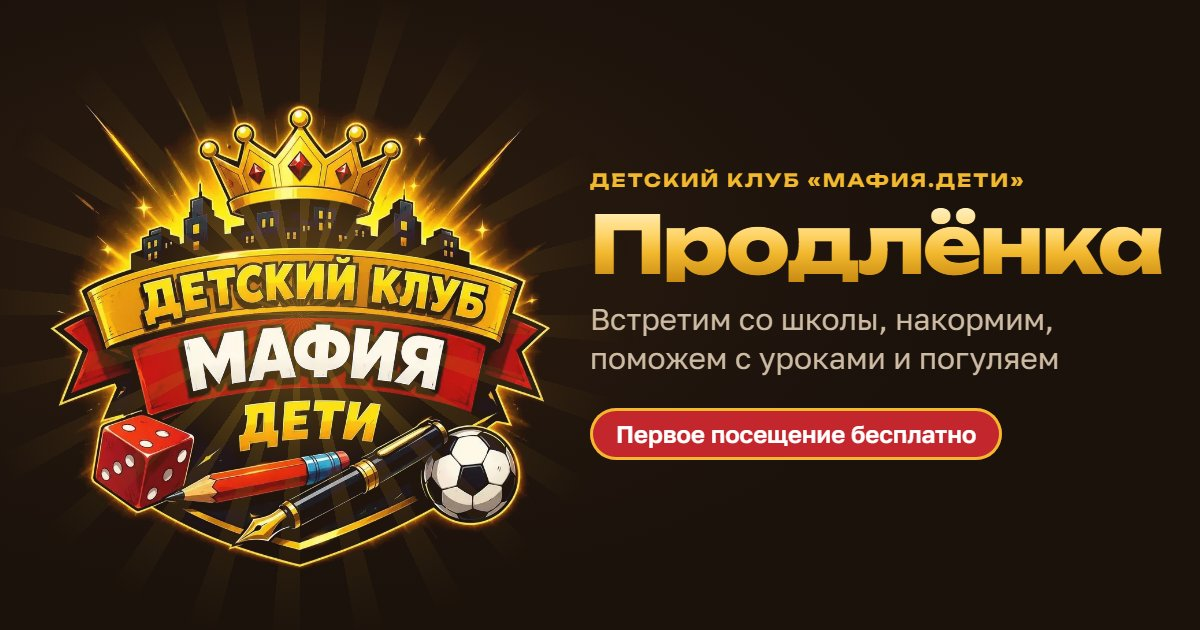
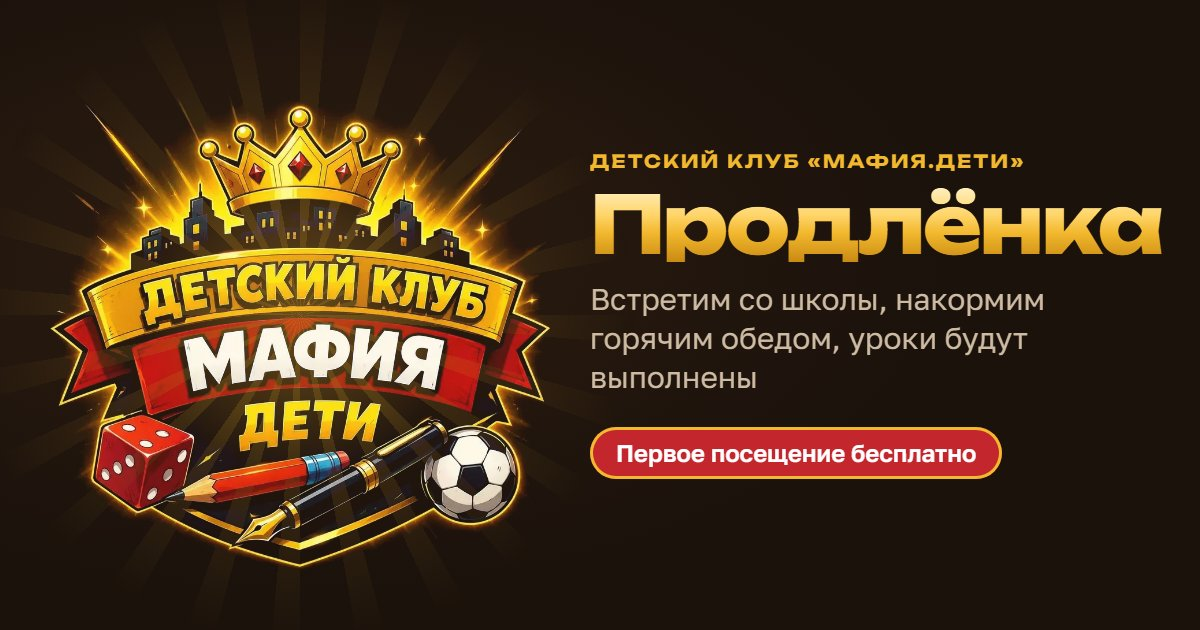
Правки клиента: цены 19 900 и 14 900 в месяц, разовое посещение, сцены утро/вечер вместо карт
Тексты первого экрана и плиток по словам клиента: уроки будут выполнены,
встретим со школы или проводим в школу, небольшие группы и внимание каждому,
доп. услуга сопровождения на секции. Убраны крупная «10» и игральные карты.

Changed region(s): [[0.4933, 0.2413, 0.9867, 0.7841]]

diff --git a/index.html b/index.html
@@ -3,13 +3,13 @@
 <head>
 <meta charset="utf-8">
 <meta name="viewport" content="width=device-width, initial-scale=1">
-<title>Продлёнка «Мафия.Дети»: встретим со школы, накормим, поможем с уроками</title>
-<meta name="description" content="Детский клуб «Мафия.Дети». Продлёнка в две смены: встречаем со школы, обед и полдник, помощь с домашним заданием, прогулки, фотоотчёт каждый день. До 10 детей в смене. Первое посещение бесплатно.">
+<title>Продлёнка «Мафия.Дети» в Краснодаре: встретим со школы, накормим, погуляем</title>
+<meta name="description" content="Детский клуб «Мафия.Дети» в Краснодаре. Продлёнка в две смены: встретим со школы или проводим в школу, горячий обед, уроки будут выполнены, прогулки и фотоотчёт. Небольшие группы, питание включено в стоимость. Первое посещение бесплатно.">
 <meta name="theme-color" content="#1B120C">
 <meta property="og:type" content="website">
 <meta property="og:locale" content="ru_RU">
 <meta property="og:title" content="Продлёнка «Мафия.Дети»">
-<meta property="og:description" content="Встретим со школы, накормим, поможем с уроками и погуляем. До 10 детей в смене, первое посещение бесплатно.">
+<meta property="og:description" content="Встретим со школы или проводим в школу, накормим горячим обедом, уроки будут выполнены. Небольшие группы, первое посещение бесплатно.">
 <!-- превью на GitHub Pages: при переезде на домен клиента поменять og:url и og:image и убрать noindex -->
 <meta property="og:url" content="https://qcoldic.github.io/mafia-deti/">
 <meta property="og:image" content="https://qcoldic.github.io/mafia-deti/assets/og.jpg">
@@ -46,8 +46,8 @@
     <symbol id="i-chat" viewBox="0 0 24 24" fill="none" stroke="currentColor" stroke-width="1.8" stroke-linecap="round" stroke-linejoin="round"><path d="M4 5.5h16v10.6H9.4L4 20V5.5z"/><path d="M8 9.6h8M8 12.6h5"/></symbol>
     <symbol id="i-copy" viewBox="0 0 24 24" fill="none" stroke="currentColor" stroke-width="1.8" stroke-linecap="round" stroke-linejoin="round"><rect x="8.5" y="8.5" width="11.5" height="11.5" rx="2"/><path d="M15.5 8.5V5a1 1 0 0 0-1-1H5a1 1 0 0 0-1 1v9.5a1 1 0 0 0 1 1h3.5"/></symbol>
     <symbol id="i-arrow" viewBox="0 0 24 24" fill="none" stroke="currentColor" stroke-width="2" stroke-linecap="round" stroke-linejoin="round"><path d="M5 12h14M13 6l6 6-6 6"/></symbol>
-    <symbol id="s-heart" viewBox="0 0 24 24"><path fill="currentColor" d="M12 21.2S3.6 15.8 3.6 9.8A4.7 4.7 0 0 1 12 6.9a4.7 4.7 0 0 1 8.4 2.9c0 6-8.4 11.4-8.4 11.4z"/></symbol>
-    <symbol id="s-spade" viewBox="0 0 24 24"><path fill="currentColor" d="M12 2.4s-8 6.4-8 11.1a4.2 4.2 0 0 0 7.1 3.1l-1.2 4.9h4.2l-1.2-4.9a4.2 4.2 0 0 0 7.1-3.1C20 8.8 12 2.4 12 2.4z"/></symbol>
+    <symbol id="i-homework" viewBox="0 0 24 24" fill="none" stroke="currentColor" stroke-width="1.8" stroke-linecap="round" stroke-linejoin="round"><rect x="5" y="3" width="14" height="18" rx="2"/><path d="M8.5 7.5h7M8.6 13.6l2.3 2.3 4.6-4.9"/></symbol>
+    <symbol id="i-calendar" viewBox="0 0 24 24" fill="none" stroke="currentColor" stroke-width="1.8" stroke-linecap="round" stroke-linejoin="round"><rect x="3.5" y="5" width="17" height="15.5" rx="2.5"/><path d="M3.5 10h17M8 3v4M16 3v4M9.2 14.8l1.9 1.9 3.8-4"/></symbol>
     <symbol id="s-diamond" viewBox="0 0 24 24"><path fill="currentColor" d="M12 1.8l7.4 10.2L12 22.2 4.6 12z"/></symbol>
   </defs>
 </svg>
@@ -90,16 +90,15 @@
       <div class="hero-copy">
         <p class="eyebrow">Детский клуб «Мафия.Дети»</p>
         <h1>Продлёнка</h1>
-        <p class="lead">Встретим ребёнка со школы, накормим обедом и&nbsp;полдником, поможем с&nbsp;уроками и&nbsp;выведем погулять. А&nbsp;вам каждый день пришлём фотоотчёт.</p>
+        <p class="lead">Встретим ребёнка со&nbsp;школы или проводим в&nbsp;школу. Накормим вкусным горячим обедом, уроки будут выполнены, сходим на&nbsp;прогулку и&nbsp;обязательно пришлём фотоотчёт.</p>
         <div class="hero-cta">
           <a class="btn btn-red btn-lg" href="#zapis" data-want="Бесплатное посещение">Бесплатное посещение <svg class="ico" aria-hidden="true"><use href="#i-arrow"/></svg></a>
           <a class="btn btn-ghost-dark btn-lg" href="tel:+79330512500"><svg class="ico" aria-hidden="true"><use href="#i-phone"/></svg> Позвонить</a>
         </div>
-        <dl class="facts">
-          <div><dt>до 10</dt><dd>детей в одной смене</dd></div>
-          <div><dt>07:40</dt><dd>начало второй смены</dd></div>
-          <div><dt>18:30</dt><dd>конец первой смены</dd></div>
-        </dl>
+        <div class="facts">
+          <p class="facts-num">до&nbsp;10</p>
+          <p class="facts-text">детей в&nbsp;одной смене<b>Небольшие группы, внимание каждому</b></p>
+        </div>
       </div>
     </div>
     <svg class="skyline" viewBox="0 0 1440 200" preserveAspectRatio="xMidYMax slice" aria-hidden="true"></svg>
@@ -114,7 +113,7 @@
     </div>
   </div>
 
-  <!-- Смены и цены: две игральные карты -->
+  <!-- Смены и цены: у каждой смены своё время суток над городом. Первая до вечера, вторая с утра -->
   <section class="sec" id="smeny">
     <div class="wrap">
       <div class="sec-head rv">
@@ -123,38 +122,54 @@
         <p>Ребёнок учится в первую смену? Встретим после уроков. Во вторую? Возьмём с&nbsp;утра и&nbsp;отведём в&nbsp;школу.</p>
       </div>
       <div class="shifts">
-        <article class="pcard pcard--heart rv">
-          <div class="pcard-face">
-            <span class="idx"><b>1</b><svg aria-hidden="true"><use href="#s-heart"/></svg></span>
-            <span class="idx idx--br" aria-hidden="true"><b>1</b><svg><use href="#s-heart"/></svg></span>
-            <svg class="pcard-mark" aria-hidden="true"><use href="#s-heart"/></svg>
+        <article class="shift rv">
+          <svg class="scene scene--evening" viewBox="0 0 400 150" preserveAspectRatio="xMidYMax slice" aria-hidden="true">
+            <defs><linearGradient id="sky-evening" x1="0" y1="0" x2="0" y2="1"><stop offset="0" stop-color="#4A1A26"/><stop offset=".55" stop-color="#B8413A"/><stop offset="1" stop-color="#F2A548"/></linearGradient></defs>
+            <rect width="400" height="150" fill="url(#sky-evening)"/>
+            <path class="star" d="M262 24l3 5-3 5-3-5zM318 46l2.4 4-2.4 4-2.4-4zM356 18l2 3.4-2 3.4-2-3.4zM206 38l2 3.4-2 3.4-2-3.4z"/>
+            <g class="sun"><circle cx="104" cy="92" r="52" fill="#FFD56A" opacity=".22"/><circle cx="104" cy="92" r="30" fill="#FFC24D"/></g>
+            <g class="city" data-city="evening"></g>
+          </svg>
+          <div class="shift-body">
+            <span class="coin shift-num" aria-hidden="true">1</span>
             <h3 class="kicker">Первая смена</h3>
             <p class="time">до 18:30</p>
-            <p class="pcard-text">Встречаем со школы, дальше ребёнок с&nbsp;нами до&nbsp;вечера.</p>
-            <p class="incl"><svg class="ico" aria-hidden="true"><use href="#i-meal"/></svg> Обед и&nbsp;полдник</p>
-            <div class="pcard-foot">
-              <p class="price">22&nbsp;000&nbsp;₽</p>
+            <p class="shift-text">Встречаем со школы, дальше ребёнок с&nbsp;нами до&nbsp;вечера.</p>
+            <p class="incl"><svg class="ico" aria-hidden="true"><use href="#i-meal"/></svg> Питание включено: обед и&nbsp;полдник</p>
+            <div class="shift-foot">
+              <p class="price">19&nbsp;900&nbsp;₽ <small>в&nbsp;месяц</small></p>
               <a class="link-arrow" href="#zapis" data-want="Первая смена">Записаться <svg class="ico" aria-hidden="true"><use href="#i-arrow"/></svg></a>
             </div>
           </div>
         </article>
-        <article class="pcard pcard--spade rv">
-          <div class="pcard-face">
-            <span class="idx"><b>2</b><svg aria-hidden="true"><use href="#s-spade"/></svg></span>
-            <span class="idx idx--br" aria-hidden="true"><b>2</b><svg><use href="#s-spade"/></svg></span>
-            <svg class="pcard-mark" aria-hidden="true"><use href="#s-spade"/></svg>
+        <article class="shift rv">
+          <svg class="scene scene--morning" viewBox="0 0 400 150" preserveAspectRatio="xMidYMax slice" aria-hidden="true">
+            <defs><linearGradient id="sky-morning" x1="0" y1="0" x2="0" y2="1"><stop offset="0" stop-color="#F6CFAE"/><stop offset="1" stop-color="#FFF3D8"/></linearGradient></defs>
+            <rect width="400" height="150" fill="url(#sky-morning)"/>
+            <g class="sun"><circle cx="292" cy="94" r="50" fill="#F2B82E" opacity=".2"/><circle cx="292" cy="94" r="27" fill="#F5BE3C"/></g>
+            <g class="cloud"><circle cx="78" cy="46" r="12"/><circle cx="94" cy="38" r="16"/><circle cx="111" cy="47" r="11"/><rect x="66" y="44" width="56" height="14" rx="7"/></g>
+            <g class="cloud"><circle cx="196" cy="30" r="8"/><circle cx="207" cy="25" r="10"/><circle cx="218" cy="31" r="7"/><rect x="189" y="29" width="36" height="9" rx="4.5"/></g>
+            <g class="city" data-city="morning"></g>
+          </svg>
+          <div class="shift-body">
+            <span class="coin shift-num" aria-hidden="true">2</span>
             <h3 class="kicker">Вторая смена</h3>
             <p class="time">с 07:40</p>
-            <p class="pcard-text">Утром ребёнок у&nbsp;нас, потом отводим его в&nbsp;школу.</p>
-            <p class="incl"><svg class="ico" aria-hidden="true"><use href="#i-meal"/></svg> Обед</p>
-            <div class="pcard-foot">
-              <p class="price">15&nbsp;000&nbsp;₽</p>
+            <p class="shift-text">Утром ребёнок у&nbsp;нас, потом отводим его в&nbsp;школу.</p>
+            <p class="incl"><svg class="ico" aria-hidden="true"><use href="#i-meal"/></svg> Питание включено: обед</p>
+            <div class="shift-foot">
+              <p class="price">14&nbsp;900&nbsp;₽ <small>в&nbsp;месяц</small></p>
               <a class="link-arrow" href="#zapis" data-want="Вторая смена">Записаться <svg class="ico" aria-hidden="true"><use href="#i-arrow"/></svg></a>
             </div>
           </div>
         </article>
       </div>
-      <p class="limit rv"><svg class="ico" aria-hidden="true"><use href="#i-kids"/></svg> В&nbsp;одной смене максимум <b>10&nbsp;детей</b></p>
+      <div class="dayrate rv">
+        <span class="coin" aria-hidden="true"><svg><use href="#i-calendar"/></svg></span>
+        <p class="dayrate-label">Разовое посещение</p>
+        <p class="dayrate-price">1&nbsp;300&nbsp;₽ <small>за&nbsp;день</small></p>
+        <a class="link-arrow" href="#zapis" data-want="Разовое посещение">Записаться <svg class="ico" aria-hidden="true"><use href="#i-arrow"/></svg></a>
+      </div>
     </div>
   </section>
 
@@ -166,13 +181,14 @@
         <h2>Что входит в&nbsp;продлёнку</h2>
       </div>
       <ul class="tiles">
-        <li class="tile rv"><span class="coin"><svg aria-hidden="true"><use href="#i-school"/></svg></span><div><h3>Встретим со школы</h3><p>И&nbsp;проводим на&nbsp;занятия или в&nbsp;кружки.</p></div></li>
+        <li class="tile rv"><span class="coin"><svg aria-hidden="true"><use href="#i-school"/></svg></span><div><h3>Встретим со школы</h3><p>Или проводим в&nbsp;школу.</p></div></li>
         <li class="tile rv"><span class="coin"><svg aria-hidden="true"><use href="#i-camera"/></svg></span><div><h3>Фотоотчёт каждый день</h3><p>Вы всегда в&nbsp;курсе, чем занят ваш ребёнок.</p></div></li>
         <li class="tile rv"><span class="coin"><svg aria-hidden="true"><use href="#i-meal"/></svg></span><div><h3>Вкусное питание</h3><p>Полноценный сбалансированный рацион: обед и&nbsp;полдник.</p></div></li>
-        <li class="tile rv"><span class="coin"><svg aria-hidden="true"><use href="#i-book"/></svg></span><div><h3>Помощь с&nbsp;домашним заданием</h3><p>Поддержим и&nbsp;поможем разобраться в&nbsp;заданиях.</p></div></li>
+        <li class="tile rv"><span class="coin"><svg aria-hidden="true"><use href="#i-homework"/></svg></span><div><h3>Домашние задания будут сделаны</h3></div></li>
         <li class="tile rv"><span class="coin"><svg aria-hidden="true"><use href="#i-tree"/></svg></span><div><h3>Прогулки на&nbsp;свежем воздухе</h3><p>Активные игры и&nbsp;отдых каждый день.</p></div></li>
         <li class="tile rv"><span class="coin"><svg aria-hidden="true"><use href="#i-kids"/></svg></span><div><h3>Сопровождаем в&nbsp;ДЮЦ</h3><p>Отводим ребёнка на&nbsp;занятия в&nbsp;ДЮЦ.</p></div></li>
       </ul>
+      <p class="extra rv"><span class="extra-label">Дополнительная услуга</span> Сопровождение на&nbsp;секции и&nbsp;кружки в&nbsp;радиусе 3&nbsp;км, по&nbsp;договорённости.</p>
     </div>
   </section>
 
@@ -224,13 +240,12 @@
     </div>
   </section>
 
-  <!-- Принципы и размер группы -->
+  <!-- Принципы -->
   <section class="sec" id="kak">
     <div class="wrap trust">
-      <div class="trust-num rv">
-        <p class="big10" aria-hidden="true">10</p>
+      <div class="trust-head rv">
+        <p class="tag">Атмосфера</p>
         <h2>Маленькие группы и&nbsp;домашняя атмосфера</h2>
-        <p class="trust-lead">В&nbsp;одной смене не больше десяти детей.</p>
       </div>
       <ul class="principles">
         <li class="pr rv"><svg class="ico" aria-hidden="true"><use href="#i-shield"/></svg><span>Безопасность на&nbsp;первом месте</span></li>
@@ -292,6 +307,7 @@
               <label class="chip"><input type="radio" name="want" value="Бесплатное посещение" checked><span>Бесплатное посещение</span></label>
               <label class="chip"><input type="radio" name="want" value="Первая смена"><span>Первая смена</span></label>
               <label class="chip"><input type="radio" name="want" value="Вторая смена"><span>Вторая смена</span></label>
+              <label class="chip"><input type="radio" name="want" value="Разовое посещение"><span>Разовое посещение</span></label>
               <label class="chip"><input type="radio" name="want" value="Лагерь на каникулах"><span>Лагерь на&nbsp;каникулах</span></label>
             </div>
           </fieldset>

diff --git a/styles.css b/styles.css
@@ -119,10 +119,10 @@ button{font:inherit}
 .hero h1{margin:.14em 0 .22em;font:800 clamp(36px,11vw,84px)/.98 var(--display);letter-spacing:-.025em;background:linear-gradient(180deg,#FFF0C2 0%,#FFD56A 38%,#F2B82E 62%,#C98A12 100%);-webkit-background-clip:text;background-clip:text;color:transparent;filter:drop-shadow(0 3px 0 rgba(0,0,0,.35))}
 .lead{max-width:34ch;font-size:clamp(17px,1.6vw,20px);line-height:1.5;color:var(--on-ink-muted)}
 .hero-cta{display:flex;flex-wrap:wrap;gap:12px;margin-top:26px}
-.facts{display:grid;grid-template-columns:repeat(3,minmax(0,1fr));gap:12px;margin:32px 0 0;padding-top:22px;border-top:1px solid rgba(242,184,46,.22)}
-.facts div{min-width:0}
-.facts dt{font:700 clamp(20px,3vw,30px)/1 var(--display);color:var(--gold);white-space:nowrap}
-.facts dd{margin:8px 0 0;font-size:13.5px;line-height:1.35;color:var(--on-ink-muted)}
+.facts{display:flex;align-items:center;gap:16px;margin:32px 0 0;padding-top:22px;border-top:1px solid rgba(242,184,46,.22)}
+.facts-num{margin:0;font:700 clamp(30px,4vw,40px)/1 var(--display);color:var(--gold);white-space:nowrap}
+.facts-text{margin:0;min-width:0;font-size:14.5px;line-height:1.4;color:var(--on-ink-muted)}
+.facts-text b{display:block;margin-top:2px;font-size:16px;font-weight:600;color:var(--on-ink)}
 .skyline{display:block;width:100%;height:clamp(96px,14vw,190px);margin-top:clamp(28px,5vw,48px)}
 .skyline .bld{fill:#0E0906}
 .skyline .crown{fill:var(--gold)}
@@ -154,39 +154,50 @@ button{font:inherit}
 h2{margin:.42em 0 .45em;font:800 clamp(27px,4.4vw,50px)/1.1 var(--display);letter-spacing:-.018em;text-wrap:balance}
 .sec-head h2{margin-bottom:.4em}
 
-/* ===== Смены: игральные карты ===== */
-.shifts{display:grid;gap:44px;max-width:980px}
-@media (min-width:760px){.shifts{grid-template-columns:1fr 1fr;gap:48px}}
-.pcard{position:relative;isolation:isolate}
-/* рубашка карты, выглядывает из-под лица */
-.pcard::before{content:'';position:absolute;inset:0;z-index:-1;border-radius:var(--radius);border:6px solid var(--card);background:repeating-linear-gradient(45deg, rgba(242,184,46,.42) 0 2px, transparent 2px 13px), repeating-linear-gradient(-45deg, rgba(242,184,46,.42) 0 2px, transparent 2px 13px), var(--red);box-shadow:0 18px 34px -22px rgba(70,36,6,.6);transform:rotate(3deg) translate(6px,8px);transition:transform .45s cubic-bezier(.2,.7,.2,1)}
-.pcard--spade::before{background:repeating-linear-gradient(45deg, rgba(242,184,46,.35) 0 2px, transparent 2px 13px), repeating-linear-gradient(-45deg, rgba(242,184,46,.35) 0 2px, transparent 2px 13px), var(--ink)}
-.pcard-face{position:relative;overflow:hidden;height:100%;padding:40px 30px 30px 64px;border-radius:var(--radius);background:var(--card);box-shadow:var(--shadow-card);transition:transform .45s cubic-bezier(.2,.7,.2,1)}
-.pcard-face::before{content:'';position:absolute;inset:9px;border:1.5px solid var(--gold-edge);border-radius:15px;pointer-events:none}
-.pcard:hover .pcard-face{transform:translateY(-6px) rotate(-1deg)}
-.pcard:hover::before{transform:rotate(6deg) translate(14px,10px)}
-.idx{position:absolute;top:22px;left:22px;display:grid;justify-items:center;gap:4px;color:var(--red)}
-.idx b{font:800 24px/1 var(--display)}
-.idx svg{width:18px;height:18px}
-.idx--br{top:auto;left:auto;right:22px;bottom:22px;transform:rotate(180deg)}
-.pcard--spade .idx{color:var(--text)}
-.pcard-mark{position:absolute;right:-34px;top:50%;width:230px;height:230px;transform:translateY(-50%) rotate(-12deg);color:rgba(195,38,44,.045);pointer-events:none}
-.pcard--spade .pcard-mark{color:rgba(43,26,16,.035)}
+/* ===== Смены: город вечером и утром ===== */
+.shifts{display:grid;gap:24px;max-width:980px}
+@media (min-width:760px){.shifts{grid-template-columns:1fr 1fr;gap:28px}}
+.shift{display:flex;flex-direction:column;overflow:hidden;border-radius:var(--radius);background:var(--card);border:1px solid var(--gold-edge);box-shadow:var(--shadow-card)}
+.shift:hover,.js .shift.rv.in:hover{transform:translateY(-6px)}
+.scene{display:block;width:100%;height:clamp(118px,13vw,150px)}
+.scene .crown{fill:var(--gold)}
+.scene .gem{fill:var(--red)}
+.scene .lit{fill:var(--gold)}
+.scene .star{fill:#FFE7A6}
+.scene .cloud{fill:#FFFBF2}
+.scene--evening .bld{fill:#2B1A10}
+.scene--evening .win{fill:#4A3020}
+.scene--morning .bld{fill:#C9A386}
+.scene--morning .win{fill:#EED9C2}
+/* при появлении карточки утреннее солнце встаёт, вечернее садится, в окнах зажигается свет */
+.scene .sun{transition:transform 1.4s cubic-bezier(.2,.7,.2,1) .25s}
+.scene--evening .lit{transition:opacity .45s ease var(--d,0s)}
+.js .shift.rv .scene--morning .sun{transform:translateY(26px)}
+.js .shift.rv .scene--evening .sun{transform:translateY(-22px)}
+.js .shift.rv .scene--evening .lit{opacity:0}
+.js .shift.rv.in .scene .sun{transform:none}
+.js .shift.rv.in .scene--evening .lit{opacity:1}
+.shift-body{display:flex;flex-direction:column;flex:1;padding:0 28px 28px}
+.shift-num{position:relative;margin:-28px 0 16px;font:800 24px/1 var(--display)}
 .kicker{margin:0;font:700 13px/1.2 var(--display);letter-spacing:.12em;text-transform:uppercase;color:var(--gold-deep)}
 .time{margin:.32em 0 .3em;font:800 clamp(40px,6vw,62px)/1 var(--display);letter-spacing:-.03em;white-space:nowrap}
-.pcard-text{max-width:28ch;color:var(--muted)}
-.incl{display:inline-flex;align-items:center;gap:8px;margin:0;padding:8px 14px;border-radius:999px;background:var(--paper-2);font-weight:600;font-size:15px}
+.shift-text{max-width:30ch;color:var(--muted)}
+.incl{display:inline-flex;align-items:center;align-self:flex-start;gap:8px;margin:0 0 28px;padding:8px 14px;border-radius:16px;background:var(--paper-2);font-weight:600;font-size:15px}
 .incl .ico{color:var(--gold-deep)}
-.pcard-foot{display:flex;align-items:flex-end;justify-content:space-between;flex-wrap:wrap;gap:12px 20px;margin-top:28px;padding-top:22px;border-top:1.5px dashed var(--gold-edge);padding-right:34px}
+.shift-foot{display:flex;align-items:flex-end;justify-content:space-between;flex-wrap:wrap;gap:12px 20px;margin-top:auto;padding-top:22px;border-top:1.5px dashed var(--gold-edge)}
 .price{margin:0;font:800 clamp(30px,3.6vw,38px)/1 var(--display);letter-spacing:-.02em}
-.limit{display:inline-flex;align-items:center;gap:12px;margin:clamp(40px,5vw,56px) 0 0;padding:14px 22px;border-radius:999px;background:var(--ink);color:var(--on-ink);font-size:16px}
-.limit b{color:var(--gold);font-weight:700}
-.limit .ico{color:var(--gold);width:24px;height:24px}
+.price small,.dayrate-price small{font:600 15px/1 var(--body);letter-spacing:0;color:var(--muted)}
+.dayrate{display:flex;flex-wrap:wrap;align-items:center;gap:14px 20px;max-width:980px;margin-top:24px;padding:18px 24px;border-radius:20px;background:var(--ink);color:var(--on-ink)}
+@media (min-width:760px){.dayrate{margin-top:28px}}
+.dayrate .coin{width:48px;height:48px}
+.dayrate .coin svg{width:24px;height:24px}
+.dayrate-label{flex:1 1 auto;margin:0;font:700 16px/1.3 var(--display)}
+.dayrate-price{margin:0;font:800 clamp(24px,3vw,30px)/1 var(--display);color:var(--gold);white-space:nowrap}
+.dayrate-price small{color:var(--on-ink-muted)}
+.dayrate .link-arrow{color:var(--gold-2)}
 @media (max-width:420px){
-  .pcard-face{padding:76px 22px 26px}
-  .pcard::before{transform:rotate(2deg) translate(4px,8px)}
-  .pcard-foot{padding-right:30px}
-  .limit{border-radius:18px;align-items:flex-start}
+  .shift-body{padding:0 22px 24px}
+  .dayrate{padding:18px 20px}
 }
 
 /* ===== Что входит: монеты-иконки ===== */
@@ -199,6 +210,8 @@ h2{margin:.42em 0 .45em;font:800 clamp(27px,4.4vw,50px)/1.1 var(--display);lette
 .coin svg{width:28px;height:28px}
 .tile h3{margin:3px 0 6px;font:700 17px/1.3 var(--display);letter-spacing:-.005em}
 .tile p{margin:0;font-size:16px;color:var(--muted)}
+.extra{display:flex;flex-wrap:wrap;align-items:baseline;gap:6px 14px;margin:20px 0 0;padding:18px 22px;border-radius:18px;border:2px dashed rgba(195,38,44,.35);background:rgba(255,251,244,.6);font-size:16px}
+.extra-label{font:700 12px/1.3 var(--display);letter-spacing:.12em;text-transform:uppercase;color:var(--red-deep)}
 
 /* ===== Пробное посещение ===== */
 .trial{position:relative;background:var(--ink);color:var(--on-ink)}
@@ -248,16 +261,15 @@ h2{margin:.42em 0 .45em;font:800 clamp(27px,4.4vw,50px)/1.1 var(--display);lette
 
 /* ===== Принципы ===== */
 .trust{display:grid;gap:36px}
-@media (min-width:900px){.trust{grid-template-columns:.9fr 1.1fr;gap:64px;align-items:center}}
-.big10{margin:0;font:800 clamp(120px,20vw,230px)/.82 var(--display);letter-spacing:-.06em;background:linear-gradient(180deg,#F7C64A 0%,#D9971A 60%,#A86B0C 100%);-webkit-background-clip:text;background-clip:text;color:transparent}
-.trust-num h2{margin-top:.35em}
-.trust-lead{margin:0;font-size:clamp(17px,1.6vw,19px);color:var(--muted)}
+/* «Доброжелательная» в Unbounded 16px шириной ~210px: карточке нужно от ~256px, отсюда пороги колонок */
+@media (min-width:1080px){.trust{grid-template-columns:minmax(0,1fr) minmax(0,1.6fr);gap:64px;align-items:center}}
+.trust-head h2{margin-bottom:0}
 .principles{list-style:none;display:grid;grid-template-columns:minmax(0,1fr);gap:12px}
-@media (min-width:480px){.principles{grid-template-columns:repeat(2,minmax(0,1fr));gap:14px}}
+@media (min-width:600px){.principles{grid-template-columns:repeat(2,minmax(0,1fr));gap:14px}}
 .nw{white-space:nowrap}
-.pr{display:flex;flex-direction:column;gap:18px;padding:24px;border-radius:20px;background:var(--card);border:1px solid var(--gold-edge);font:700 16px/1.35 var(--display);letter-spacing:-.005em;hyphens:auto}
+.pr{display:flex;flex-direction:column;gap:18px;padding:24px;border-radius:20px;background:var(--card);border:1px solid var(--gold-edge);font:700 16px/1.35 var(--display);letter-spacing:-.005em}
 .pr .ico{width:32px;height:32px;color:var(--red)}
-@media (max-width:479px){.pr{flex-direction:row;align-items:center;gap:16px;padding:18px 20px}}
+@media (max-width:599px){.pr{flex-direction:row;align-items:center;gap:16px;padding:18px 20px}}
 /* самые узкие телефоны: длинные слова вроде «Доброжелательная» не должны распирать карточки */
 @media (max-width:359px){
   .tile{padding:20px 18px;gap:14px}

diff --git a/main.js b/main.js
@@ -8,7 +8,7 @@ const CLUB = {
   maxPhone: '8 933 051-25-00',
 };
 
-// ---------- Ночной город на первом экране ----------
+// ---------- Город: ночной на первом экране, вечер и утро в карточках смен ----------
 // Генератор с зерном: силуэт один и тот же при каждой загрузке
 function rng(seed) {
   return () => {
@@ -19,14 +19,17 @@ function rng(seed) {
   };
 }
 
-function buildSkyline(svg) {
-  const W = 1440, H = 200, r = rng(11);
+// Дома считаются в масштабе первого экрана; карточки уменьшают готовый город через scale.
+// o: W, H, seed, clubAt (где дом с короной, доля ширины), lit (доля горящих окон),
+// twinkle (доля мигающих), delay0 и delaySpan (когда окна загораются)
+function cityParts(o) {
+  const { W, H } = o, r = rng(o.seed), clubX = W * o.clubAt;
   const parts = [];
   let x = -8;
   while (x < W + 8) {
     const w = 58 + Math.round(r() * 66);
-    // дом посередине выше всех и с короной, как на логотипе
-    const isClub = x <= W / 2 && x + w >= W / 2;
+    // дом клуба выше всех и с короной, как на логотипе
+    const isClub = x <= clubX && x + w >= clubX;
     const h = isClub ? 168 : 62 + Math.round(r() * 98);
     const y = H - h;
     parts.push(`<rect class="bld" x="${x}" y="${y}" width="${w}" height="${h + 2}"/>`);
@@ -46,19 +49,32 @@ function buildSkyline(svg) {
       for (let c = 0; c < cols; c++) {
         const wx = (x + gap + c * (9 + gap)).toFixed(1);
         parts.push(`<rect class="win" x="${wx}" y="${wy}" width="9" height="12" rx="1.5"/>`);
-        if (r() < 0.42) {
-          const tw = r() < 0.08 ? ' tw' : '';
-          parts.push(`<rect class="lit${tw}" x="${wx}" y="${wy}" width="9" height="12" rx="1.5" style="--d:${(0.3 + r() * 2.8).toFixed(2)}s"/>`);
+        if (r() < o.lit) {
+          const tw = r() < o.twinkle ? ' tw' : '';
+          parts.push(`<rect class="lit${tw}" x="${wx}" y="${wy}" width="9" height="12" rx="1.5" style="--d:${(o.delay0 + r() * o.delaySpan).toFixed(2)}s"/>`);
         }
       }
     }
     x += w + (r() < 0.25 ? 5 : 0);
   }
-  svg.innerHTML = parts.join('');
+  return parts.join('');
 }
 
 const skyline = document.querySelector('.skyline');
-if (skyline) buildSkyline(skyline);
+if (skyline) {
+  skyline.innerHTML = cityParts({ W: 1440, H: 200, seed: 11, clubAt: 0.5, lit: 0.42, twinkle: 0.08, delay0: 0.3, delaySpan: 2.8 });
+}
+
+// Карточки смен: вечером свет горит почти везде, утром почти нигде
+const SCENE_CITY = {
+  evening: { seed: 7, clubAt: 0.66, lit: 0.5 },
+  morning: { seed: 3, clubAt: 0.34, lit: 0.1 },
+};
+document.querySelectorAll('.scene .city').forEach((g) => {
+  const k = 0.55, cfg = SCENE_CITY[g.dataset.city];
+  g.setAttribute('transform', `scale(${k})`);
+  g.innerHTML = cityParts({ W: 400 / k, H: 150 / k, ...cfg, twinkle: 0, delay0: 0.3, delaySpan: 1.4 });
+});
 
 // ---------- Появление при скролле ----------
 // IntersectionObserver плюс ручной расчёт по скроллу: страховка, если IO молчит
